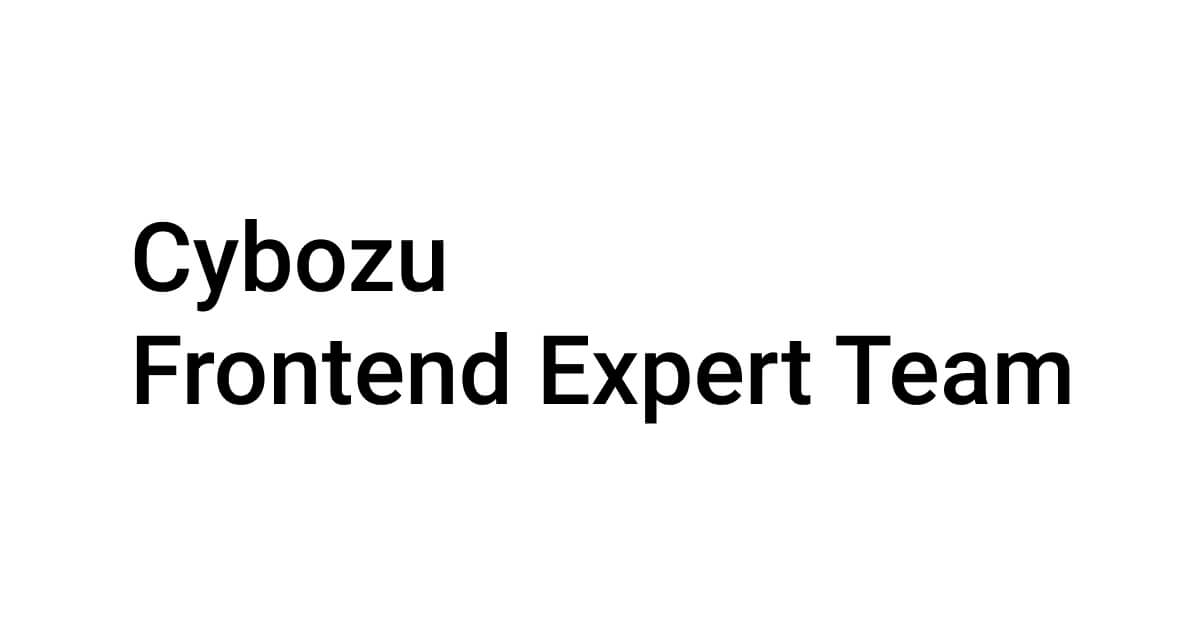
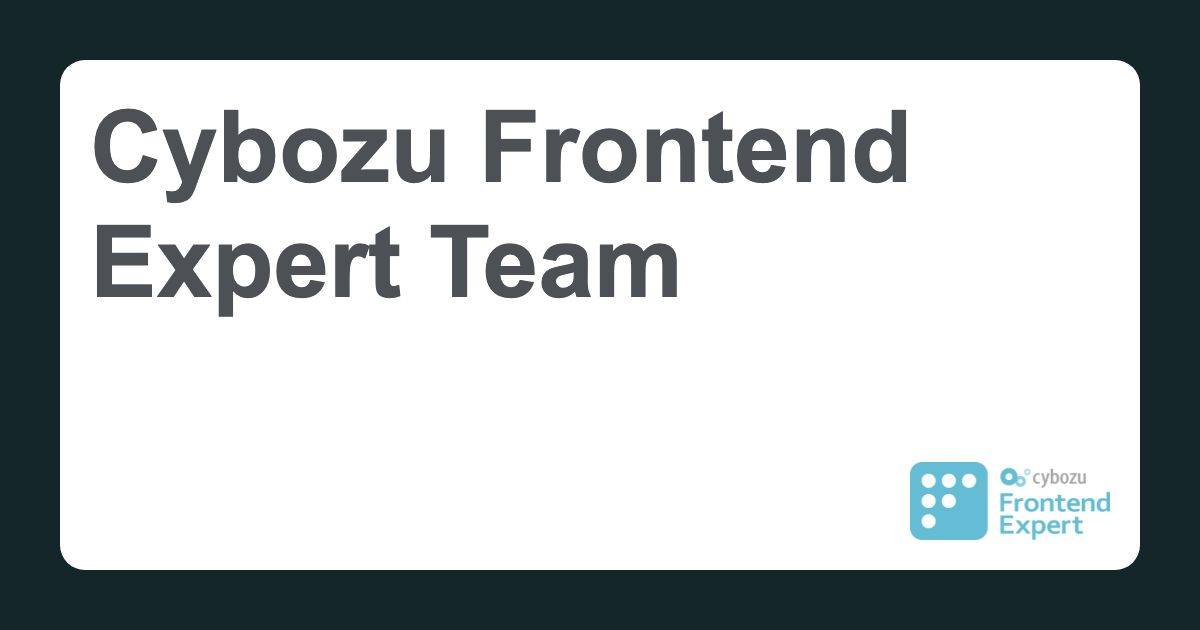
Generate fallback og-image

diff --git a/scripts/og-image.ts b/scripts/og-image.ts
@@ -36,20 +36,33 @@ async function clearImages(posts: PostData[]) {
 
 async function captureOgImages(posts: PostData[]) {
   const browser = await puppeteer.launch();
+  await captureOgImage(
+    browser,
+    "Cybozu Frontend Expert Team",
+    path.join(OG_DIR_PATH, "..", "ogp.jpg")
+  );
   for (const { title, slug } of posts) {
-    const page = await browser.newPage();
-    await page.setViewport({
-      width: 1200,
-      height: 630,
-    });
-    await page.goto("file://" + OG_SOURCE_HTML_FILE_PATH);
-    await page.exposeFunction("getTitle", () => title);
-    await page.reload();
-    await page.screenshot({
-      path: `${OG_DIR_PATH}/` + slug + ".jpg",
-      type: "jpeg",
-    });
-    await page.close();
+    await captureOgImage(browser, title, `${OG_DIR_PATH}/` + slug + ".jpg");
   }
   await browser.close();
+}
+
+async function captureOgImage(
+  browser: puppeteer.Browser,
+  title: string,
+  imagePath: string
+) {
+  const page = await browser.newPage();
+  await page.setViewport({
+    width: 1200,
+    height: 630,
+  });
+  await page.goto("file://" + OG_SOURCE_HTML_FILE_PATH);
+  await page.exposeFunction("getTitle", () => title);
+  await page.reload();
+  await page.screenshot({
+    path: imagePath,
+    type: "jpeg",
+  });
+  await page.close();
 }
